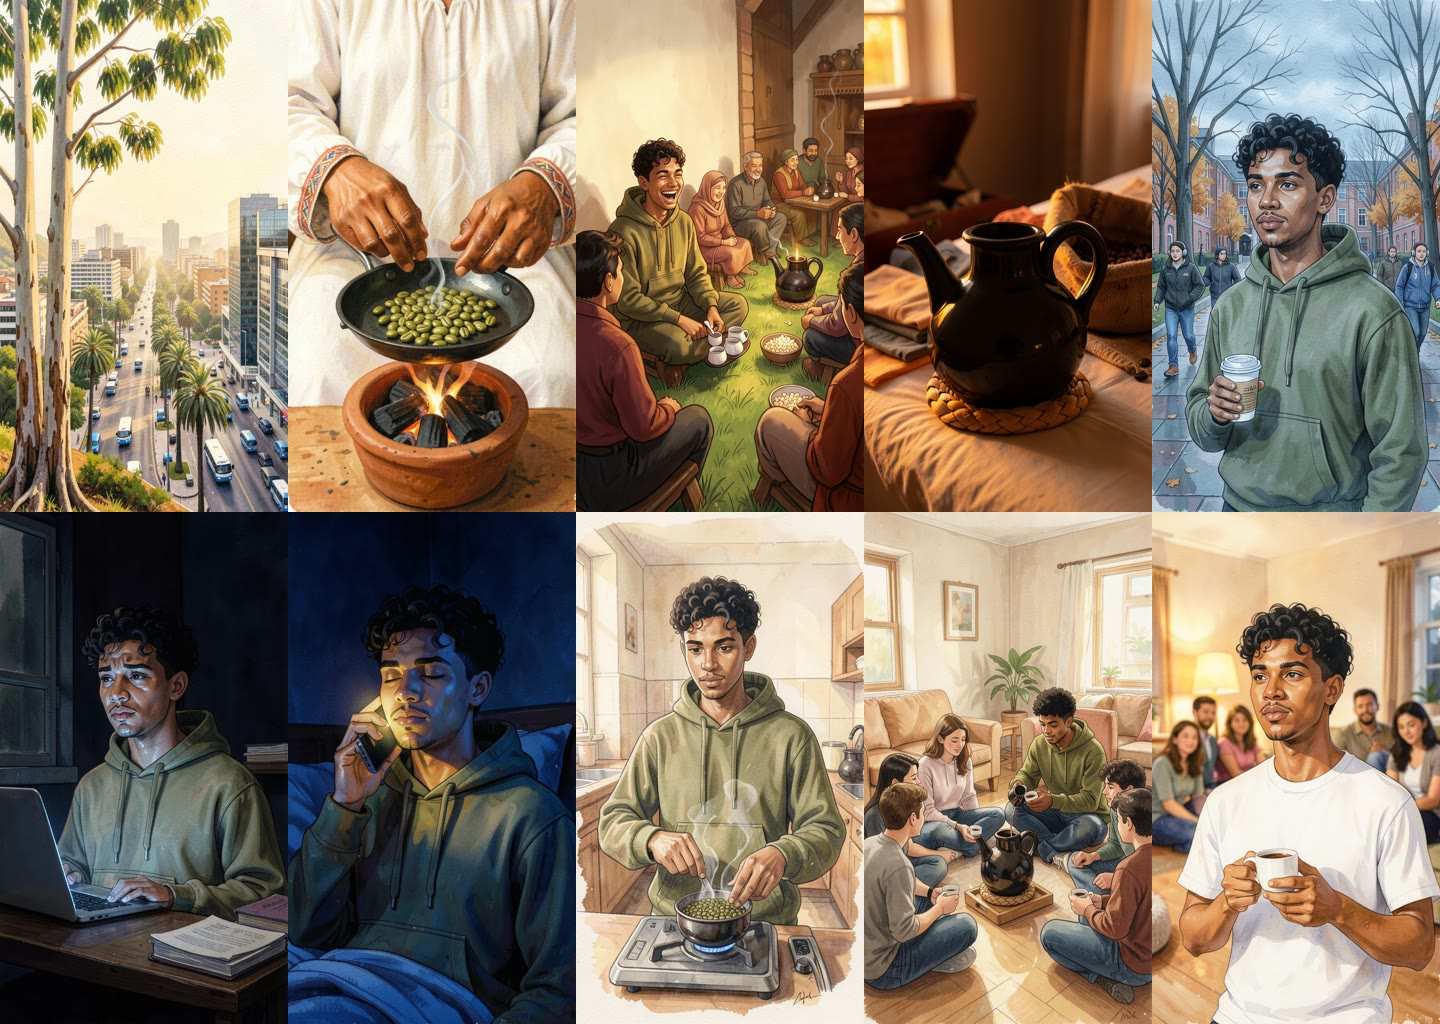
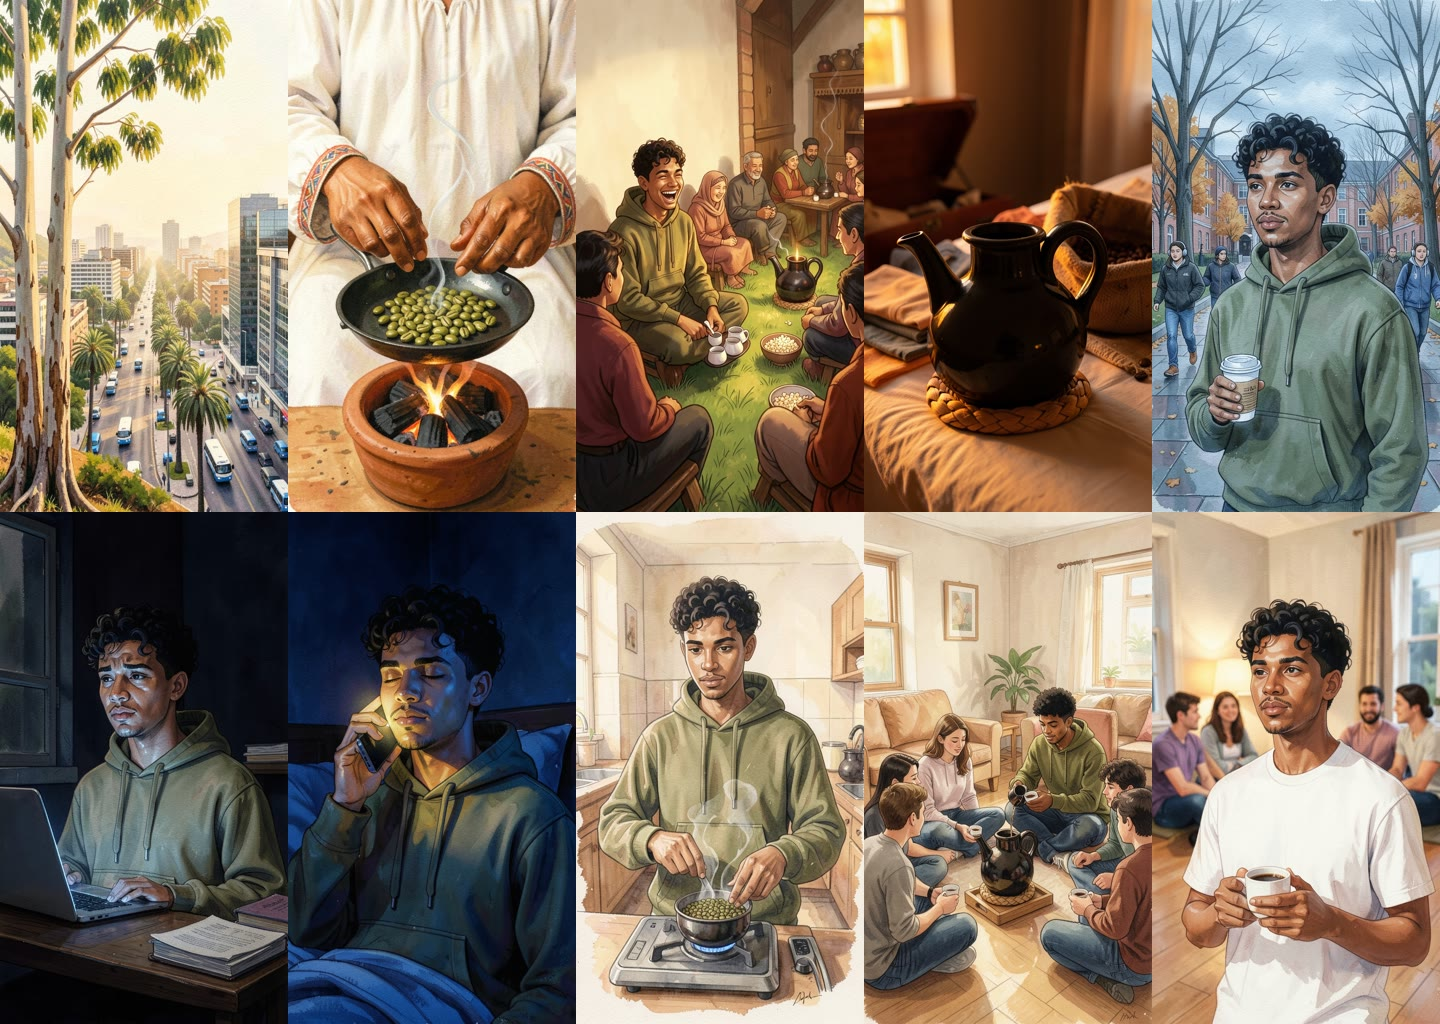
Step 6: Wan 2.2 video notebook; s10 reseed; music gain

Changed region(s): [[0.7812, 0.5, 1.0, 1.0]]

diff --git a/EXPERIMENTS.md b/EXPERIMENTS.md
@@ -46,3 +46,9 @@ One change at a time, seed fixed where possible. Evidence = runs.jsonl entries o
 - **Change:** Measured mean level during speech and during the pauses between lines (real narration, chosen score), at three score levels before ducking.
 - **Result:** 0 dB: speech -18.6 dB, pauses -14.5 dB, so the music swelled 4.1 dB louder than the voice between lines. -8 dB: pauses 1.8 dB below speech. -12 dB: pauses 5.2 dB below speech. The ACE-Step track is mastered loud (-12.5 LUFS) and ducking only acts while the voice is present.
 - **Decision:** `music.gain_db = -12` in the storyboard (a creative setting, so it lives in the contract) plus ducking. Final loudness ceiling lowered to -1.5 dB true peak; measured peak -1.5 dB, inside the brief's -1 dB limit.
+
+## E07: Choosing the score among 3 ACE-Step candidates (2026-11-25, music)
+- **Hypothesis:** Of three seeds with the same caption and bpm, the calmest one will sit best under the narration.
+- **Change:** Generated seeds 1-3 on a Colab L4 (about 4 s per 85 s track, logged in runs.jsonl), listened to each against the film.
+- **Result:** I chose seed 2 because it feels calmer and leaves room for the voice. Measured for comparison: loudness -14.2 / -12.5 / -11.6 LUFS and loudness range 4.7 / 3.5 / 2.6 LU for seeds 1 / 2 / 3. Seed 2 is not the quietest, and simple measures of busyness did not separate the candidates clearly, so the choice rests on listening, not on level.
+- **Decision:** Seed 2. Its level is set by `music.gain_db` (E06), not by the candidate.
